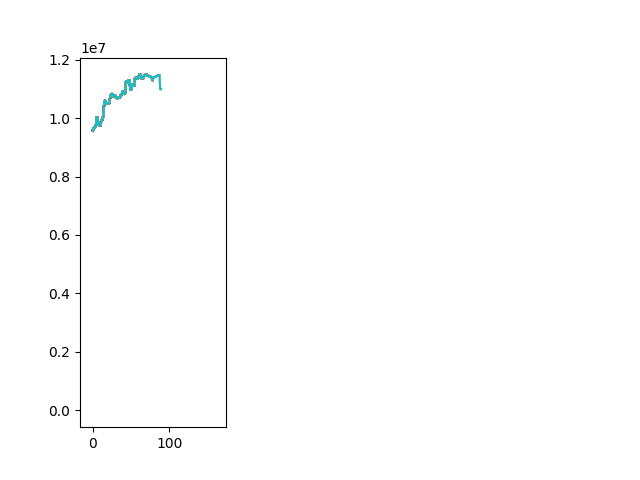
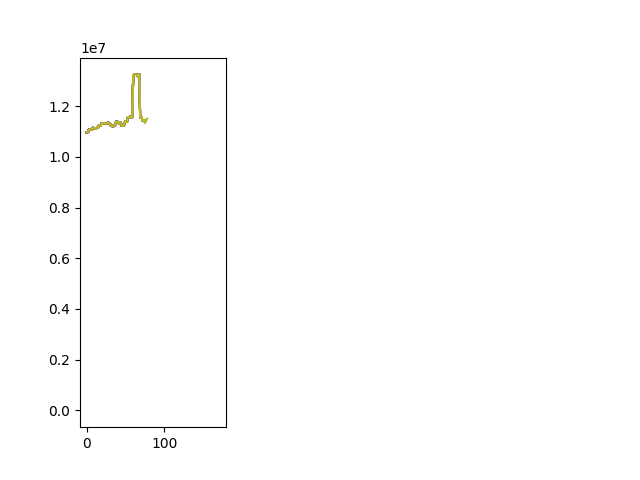
fixed problems

diff --git a/code/main.py b/code/main.py
@@ -52,13 +52,13 @@ for maison in range(int(total_maisons)):
 # Just comment out the below lines when Random algorithm is not needed 
 # when using this algorithm comment out everything below the -----
 
-loop = input("How many random states do you want to generate: ")
+# loop = input("How many random states do you want to generate: ")
 
-while not loop.isdigit():
-   loop = input("Insert number of runs: ")
-loops = int(loop)
-randomstate_hillclimber = Randomstate_Hillclimber(loops, all_houses, area)
-randomstate_hillclimber.looper()
+# while not loop.isdigit():
+#    loop = input("Insert number of runs: ")
+# loops = int(loop)
+# randomstate_hillclimber = Randomstate_Hillclimber(loops, all_houses, area)
+# randomstate_hillclimber.looper()
 
 # -------------------------------------------------------------------
 
@@ -68,13 +68,13 @@ randomstate_hillclimber.looper()
 # Just comment out the below lines when the moving hillclimber is not needed 
 # When using this algorithm comment out the random state hillclimber and everything below the -----
 
-total_change = input("How many changes do you want to make? ")
-while not total_change.isdigit():
-    total_change = int(input("Insert number of changes: "))
-total_changes = int(total_change)
+# total_change = input("How many changes do you want to make? ")
+# while not total_change.isdigit():
+#     total_change = int(input("Insert number of changes: "))
+# total_changes = int(total_change)
 
-moving_hillclimber = Moving_Hillclimber(total_changes, all_houses, area)
-moving_hillclimber.move_houses()
+# moving_hillclimber = Moving_Hillclimber(total_changes, all_houses, area)
+# moving_hillclimber.move_houses()
     
 # -------------------------------------------------------------------------
 
@@ -85,13 +85,13 @@ moving_hillclimber.move_houses()
 # Just comment out the below lines when simulated annealing is not needed 
 # when using this algorithm comment out everything below the -----
 
-# changes = input("how many changes per random state do you want to make: ")
-# while not changes.isdigit():
-#    changes = input("Insert number of changes: ")
+changes = input("how many changes per random state do you want to make: ")
+while not changes.isdigit():
+   changes = input("Insert number of changes: ")
 
-# changes = int(changes)
-# simulated_annealing = Simulated_Annealing(changes, all_houses, area)
-# simulated_annealing.simulate()
+changes = int(changes)
+simulated_annealing = Simulated_Annealing(changes, all_houses, area)
+simulated_annealing.simulate()
 
 # -------------------------------------------------------------------
 

diff --git a/code/moving_hillclimber.py b/code/moving_hillclimber.py
@@ -32,6 +32,9 @@ class Moving_Hillclimber:
             # Get a random house from all houses
             moving_house = self.random_house(self.houses)
 
+            # !!!! reset the houses prices to their original price before calculating their new price increase
+            self.area.price_reset(self.houses)
+
             # Assigns a new valid place for a house in a certain direction.
             self.assign_random_direction(given_direction, moving_house)
 

diff --git a/code/annealing.py b/code/annealing.py
@@ -71,9 +71,9 @@ class Simulated_Annealing(Moving_Hillclimber):
             # print(solution_totalprice)
             y_axes.append(solution_totalprice)
 
-            # plt.subplot(131)
-            # plt.plot(y_axes)
-            # plt.savefig('../plots/simulated_annealing.png')
+            plt.subplot(131)
+            plt.plot(y_axes)
+            plt.savefig('../plots/simulated_annealing.png')
         
             self.area.load_houses(solution)
 
